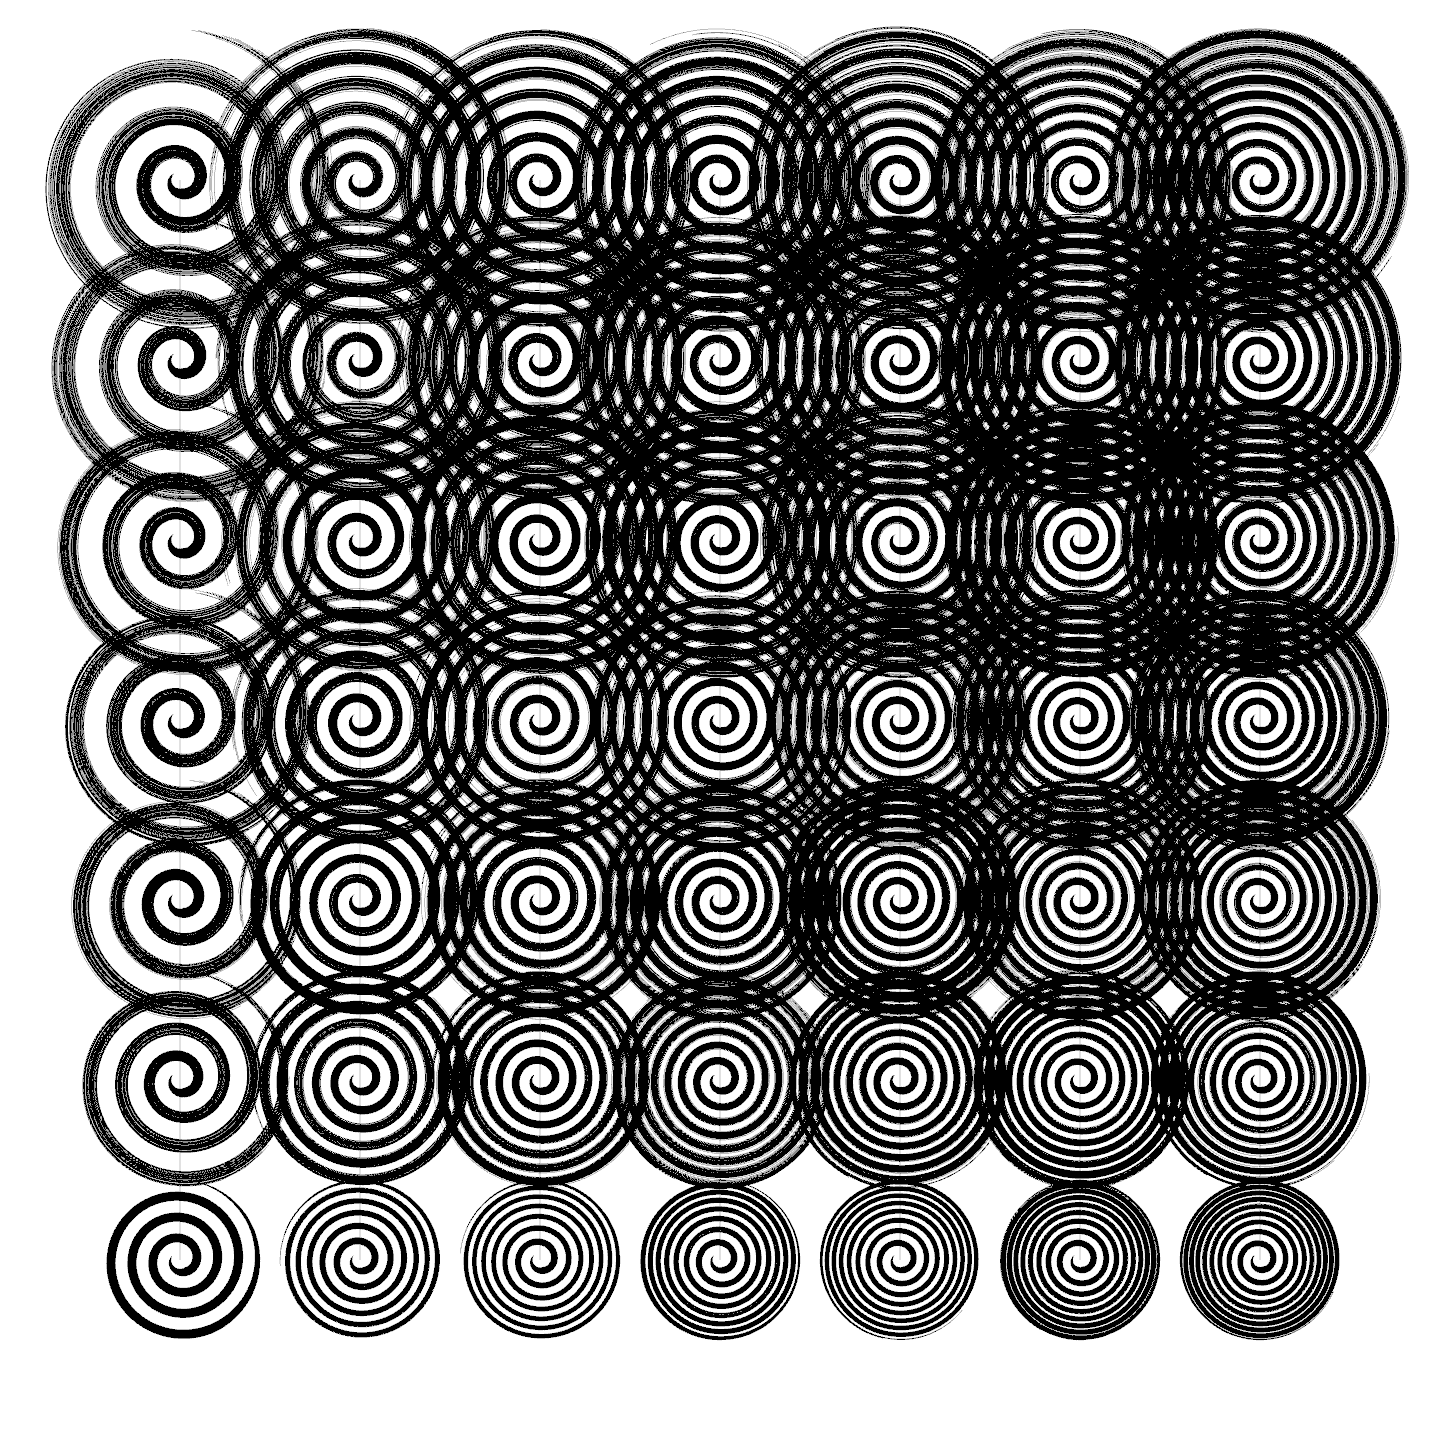
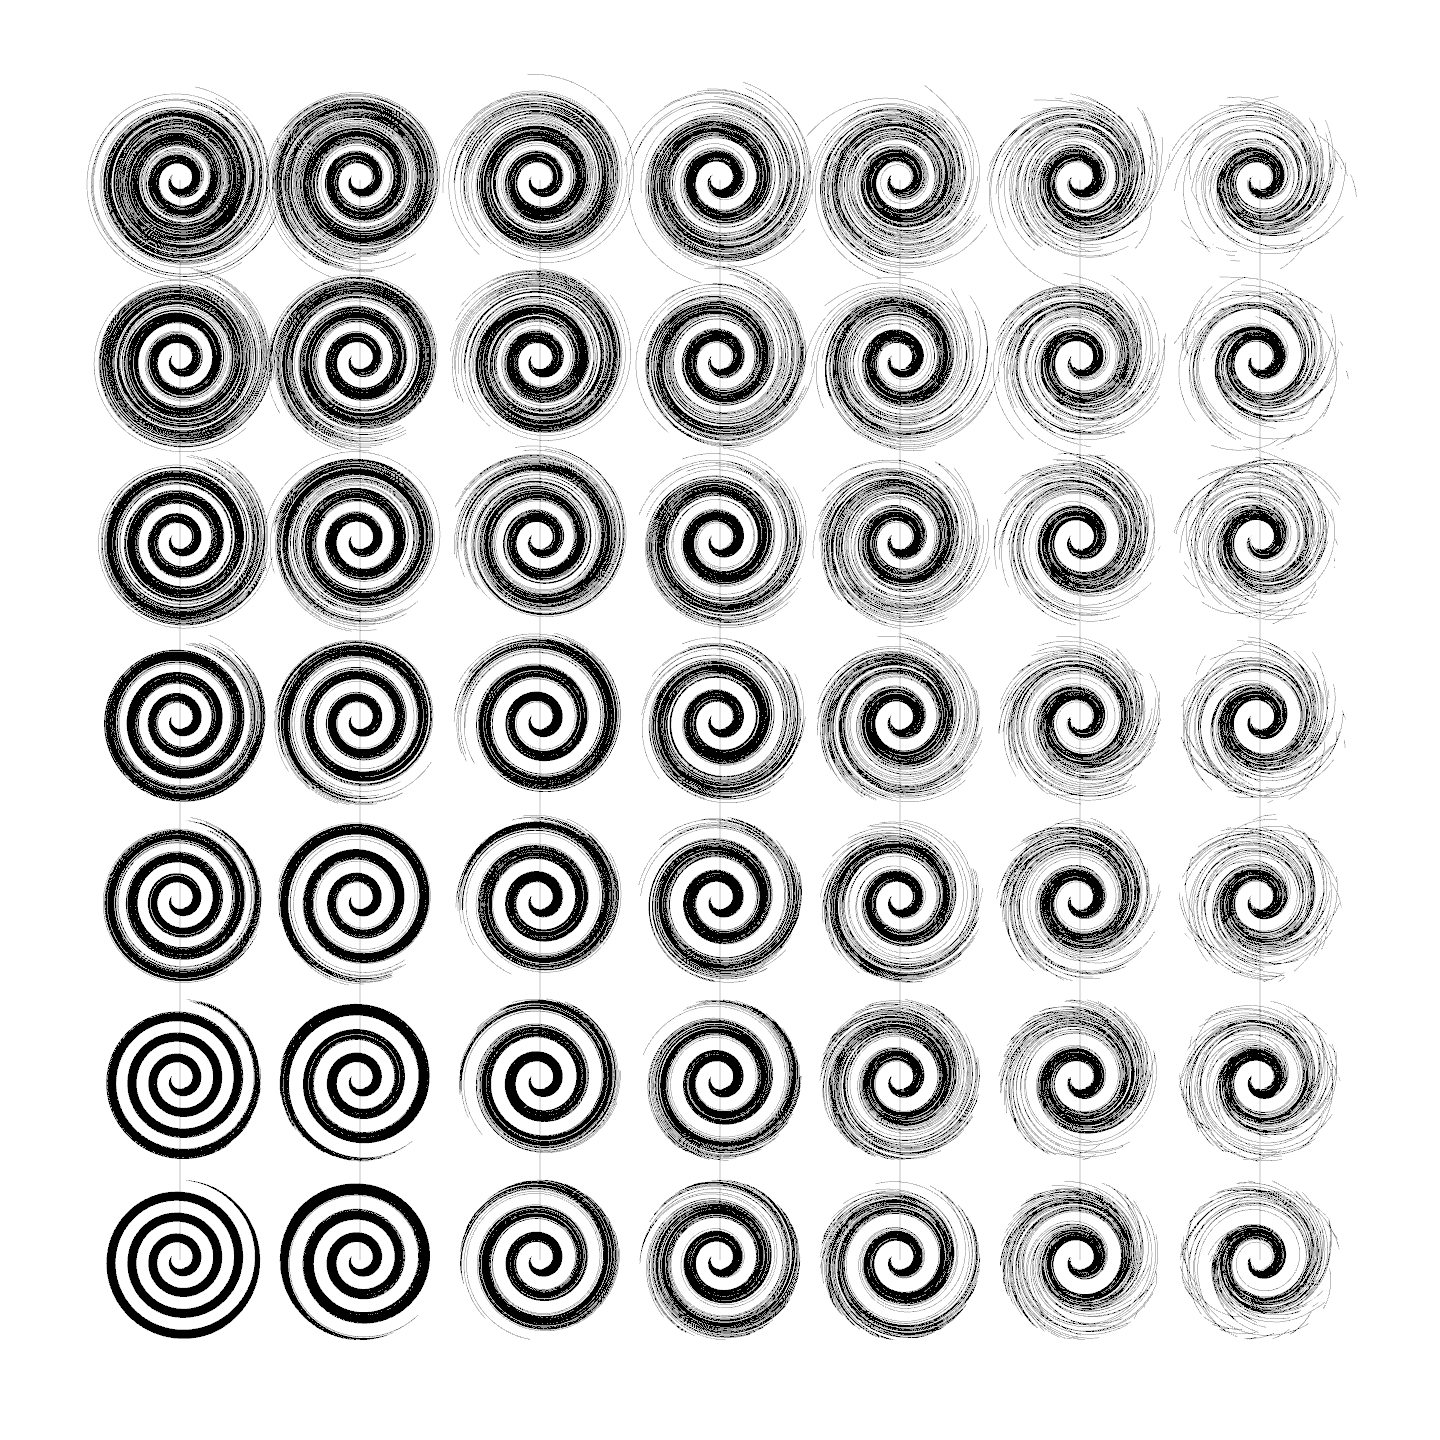
fix: randrange error

diff --git a/day-05-veramolnar/src/main.rs b/day-05-veramolnar/src/main.rs
@@ -16,7 +16,7 @@ fn main() {
 }
 
 fn randrange(a: f32, b: f32) -> f32 {
-  rand::random::<f32>() * (b - a) - a
+  rand::random::<f32>() * (b - a) + a
 }
 
 // Render
@@ -66,13 +66,13 @@ fn view(app: &App, frame: Frame) {
             y1 = y2;
 
             // accumulate da, dr bias
-            da_cum += randrange(-2.0, 1.0) * ds * (kx as f32).pow(0.5) / 16.0;
-            dr_cum += randrange(-2.0, 1.0) * ds * (ky as f32).pow(0.5) / 16.0;
+            da_cum += randrange(-2.0, 1.0) * ds * (kx as f32).pow(0.5) / 8.0;
+            dr_cum += randrange(-1.0, 1.0) * ds * (ky as f32).pow(0.5) / 4.0;
 
             // intermittent sharp changes in accumulated bias
             if ss % 64 == 0 {
-              da_cum += randrange(-2.0, 1.0) * ds * (kx as f32).pow(0.5) * 4.0;
-              dr_cum += randrange(-2.0, 1.0) * ds * (ky as f32).pow(0.5) * 4.0;
+              da_cum += randrange(-2.0, 1.0) * ds * (kx as f32).pow(1.5)*2.0;//.pow(0.5) * 8.0;
+              dr_cum += randrange(-1.0, 1.0) * ds * (ky as f32).pow(1.5)*6.0;//.pow(0.5) * 8.0;
             }
 
 
